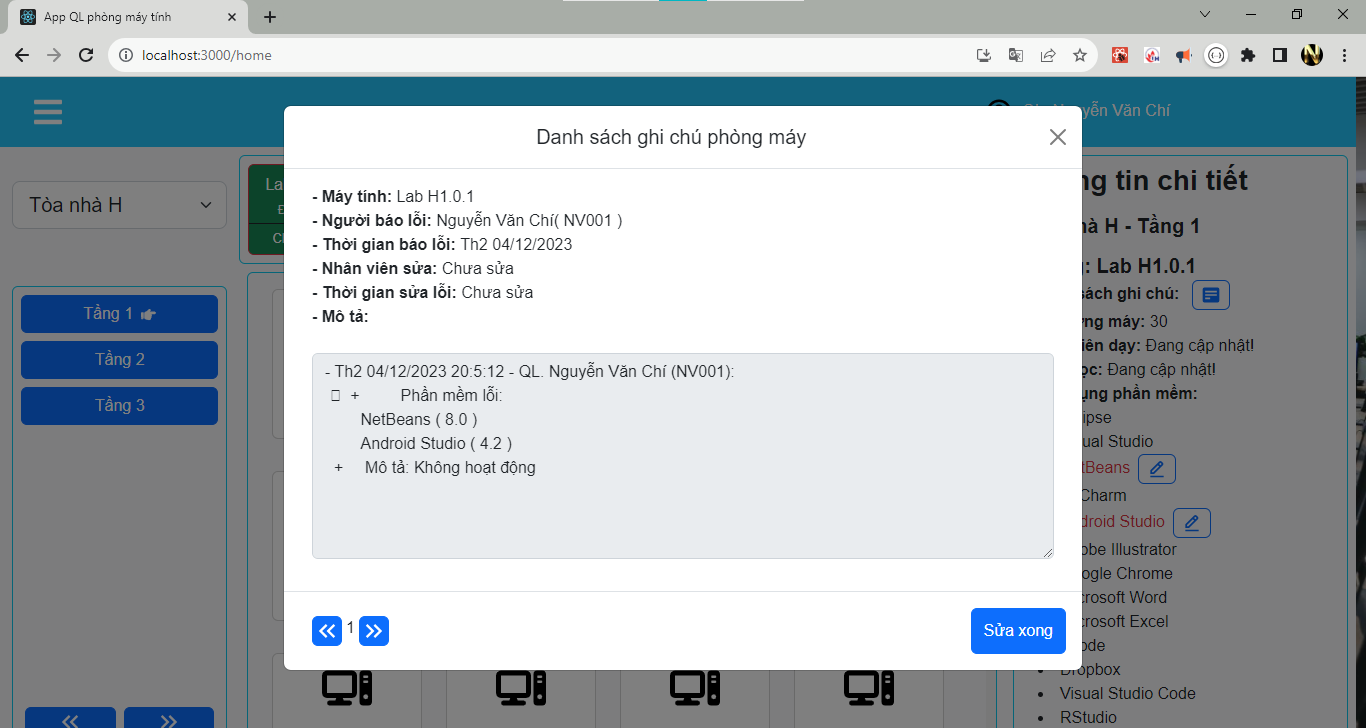
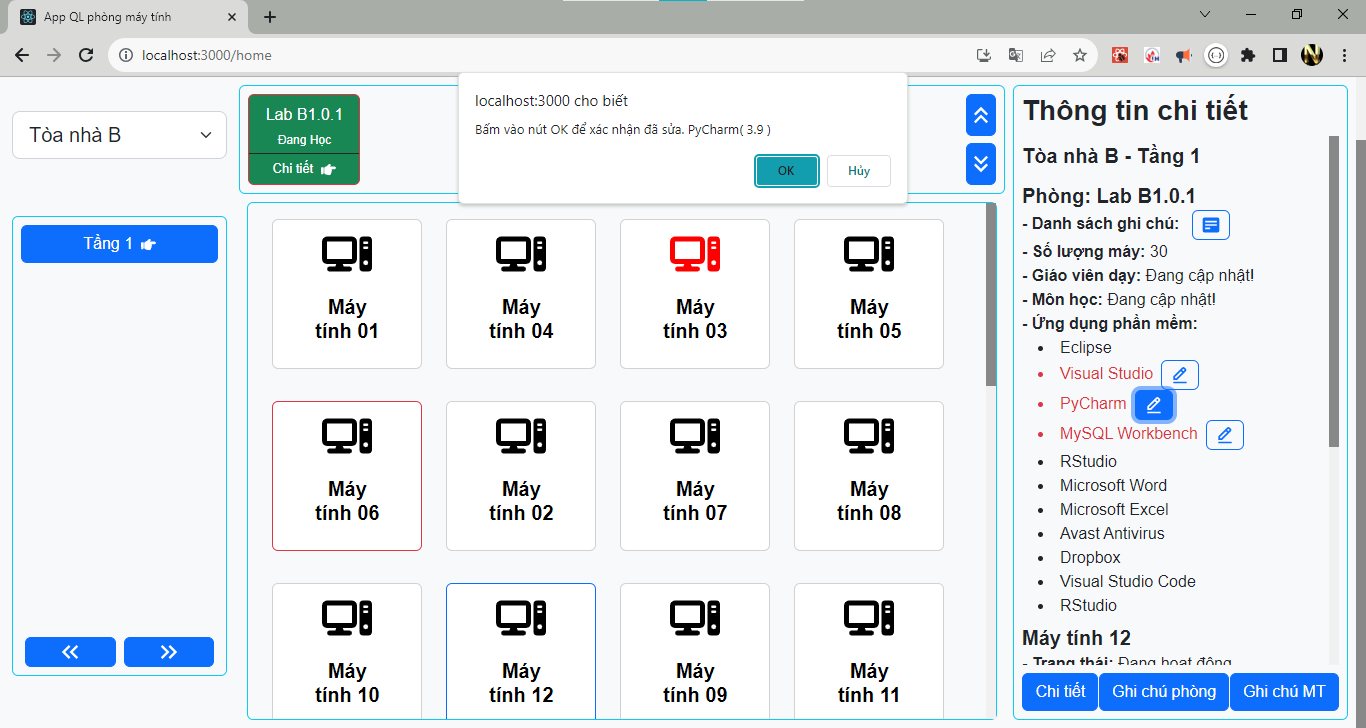
PageHome : update btn SuaGhiChuPhong

diff --git a/src/redux/reducers/home2Reducer.jsx b/src/redux/reducers/home2Reducer.jsx
@@ -2,7 +2,12 @@
 
 import { createSlice } from "@reduxjs/toolkit";
 import { formatStringDate2, http } from "../../util/config";
-import { setObjThongTinByMay, setObjThongTinByPhongMay } from "./homeReducer";
+import {
+  setObjThongTinByMay,
+  setObjThongTinByPhongMay,
+  setObjThongTinByTang,
+} from "./homeReducer";
+import { setArrPhongMay_GhiChuAction } from "./phongMayReducer";
 //phuc vụ cho ghi chú
 const initialState = {
   objThongTinGhiChu: {
@@ -29,6 +34,81 @@ export const { setObjThongTinGhiChu } = home2Reducer.actions;
 export default home2Reducer.reducer;
 
 // +++++++++++++++++++++++++++++++++++++++++++++++++++++++++
+/**
+ *
+ * @param {can ma thiete bij de cap nhatj phongMayPhanMem} phanMem
+ * @param {maphong de update ghi chu - update PhanmemThietBI} phong
+ * @param {reload lại page home} phong
+ * @returns
+ */
+export const updateGhiChu_PhongMay_PM_btnSuaPM = (
+  maTK,
+  txtNoiDung,
+  phanMem,
+  arrPhongMay_GhiChu,
+  phong,
+  tang
+) => {
+  console.log(maTK, txtNoiDung, phanMem, arrPhongMay_GhiChu, phong, tang);
+  return async (dispatch) => {
+    try {
+      let result_ObjGhiChuGanNhat_maPhong = await http.get(
+        `/GhiChuPhongMayGanNhatTheoPhongMay/${phong.maPhong}`
+      );
+      console.log(result_ObjGhiChuGanNhat_maPhong.data);
+
+      let objGhiChu = { ...result_ObjGhiChuGanNhat_maPhong.data };
+
+      let noidungNew = objGhiChu.noiDung + txtNoiDung;
+
+      // // cap nhat laij ghi chu
+      let objGhiChuNew = {
+        ...objGhiChu,
+        noiDung: noidungNew,
+        ngaySua: new Date(),
+        nguoiSuaLoi: maTK,
+      };
+      console.log(objGhiChuNew);
+      await http.post("/LuuGhiChuPhongMay", objGhiChuNew);
+
+      // //cap nhat PhongMayPhanMem
+      let savePhongMay_PhanMem = {
+        phongMay: phong,
+        phanMem: phanMem,
+        status: true,
+      };
+      console.log(savePhongMay_PhanMem);
+      await http.post("/LuuPhongMayPhanMem", savePhongMay_PhanMem);
+
+      // //
+
+      // let objUpdate = await http.get(`/PhongMay/${phong.maPhong}`);
+      // // giups reload laij page home
+
+      // dispatch(setObjThongTinByPhongMay(objUpdate.data));
+      // dispatch(setObjThongTinByMay(mayTinh));
+
+      let arrPhongMayNew = arrPhongMay_GhiChu.map((item) => {
+        if (item.maPhong === phong.maPhong) {
+          let { dsGhiChuPM } = item;
+
+          let dsGhiChuPMNew = dsGhiChuPM.map((item) => {
+            if (item.maGhiChu === objGhiChu.maGhiChu) return objGhiChuNew;
+            return item;
+          });
+          return { ...item, dsGhiChuPM: [...dsGhiChuPMNew] };
+        }
+        return item;
+      });
+      dispatch(setArrPhongMay_GhiChuAction([...arrPhongMayNew]));
+      // giups reload laij page home
+      dispatch(setObjThongTinByTang(tang, arrPhongMayNew));
+    } catch (error) {
+      alert("Lỗi hệ thống! Vui lòng quay lại sau.");
+      console.log("🚀 ~ file: home2Reducer.jsx:42 ~ return ~ error:", error);
+    }
+  };
+};
 /**
  *
  * @param {can ma thiete bij de cap nhatj MayTInhThietbi} thietBi
@@ -68,7 +148,7 @@ export const updateGhiChu_MayTinh_Tbi_btnSuaTbi = (
         thietBi,
         status: true,
       };
-      http.post("/LuuMayTinhThietBi", saveMayTinh_ThietBi);
+      await http.post("/LuuMayTinhThietBi", saveMayTinh_ThietBi);
 
       //
 
@@ -91,18 +171,33 @@ export const updateGhiChu_MayTinh_Tbi_btnSuaTbi = (
  * @param {GhiChuPhanMem} objDataNew
  * @param {phong dang ở dể có the reload lại} phong
  */
-export const updateGhiChu_MayTinh_PM = (objDataNew, phong) => {
+export const updateGhiChu_MayTinh_PM = (
+  objDataNew,
+  phong,
+  tang,
+  arrPhongMay_GhiChu
+) => {
   return async (dispatch) => {
     try {
       let result_saveGhiChu_PhongMay = await http.post(
         "/LuuGhiChuPhongMay",
         objDataNew
       );
-      let objUpdate = await http.get(`/PhongMay/${phong.maPhong}`);
+      let arrPhongMayNew = arrPhongMay_GhiChu.map((item) => {
+        if (item.maPhong === phong.maPhong) {
+          let { dsGhiChuPM } = item;
 
+          let dsGhiChuPMNew = dsGhiChuPM.map((item) => {
+            if (item.maGhiChu === objDataNew.maGhiChu) return objDataNew;
+            return item;
+          });
+          return { ...item, dsGhiChuPM: [...dsGhiChuPMNew] };
+        }
+        return item;
+      });
+      dispatch(setArrPhongMay_GhiChuAction([...arrPhongMayNew]));
       // giups reload laij page home
-      dispatch(setObjThongTinByPhongMay(objUpdate.data));
-
+      dispatch(setObjThongTinByTang(tang, arrPhongMayNew));
     } catch (error) {
       alert("Lỗi hệ thống! Vui lòng quay lại sau.");
       console.log("🚀 ~ file: home2Reducer.jsx:42 ~ return ~ error:", error);
@@ -304,7 +399,7 @@ export const insertGhiChu_PhongMay_Api = ({
         // giups reload laij page home
         let objUpdate = await http.get(`/PhongMay/${phong.maPhong}`);
         dispatch(setObjThongTinByPhongMay(objUpdate.data));
-      }, 1000);
+      }, 500);
       alert("Ghi chú thành công.");
       return;
     } catch (error) {

diff --git a/src/components/layoutHome/ComponentThongTinChiTiet.jsx b/src/components/layoutHome/ComponentThongTinChiTiet.jsx
@@ -3,7 +3,7 @@ import { useDispatch, useSelector } from "react-redux";
 import { FaPencilAlt } from "react-icons/fa";
 import { BiEditAlt, BiSolidDetail } from "react-icons/bi";
 import ComponentModalDetaiGhiChulMayTinh from "./ComponentModalDetaiGhiChulMayTinh";
-import { updateGhiChu_MayTinh_Tbi_btnSuaTbi } from "../../redux/reducers/home2Reducer";
+import { updateGhiChu_MayTinh_Tbi_btnSuaTbi, updateGhiChu_PhongMay_PM_btnSuaPM } from "../../redux/reducers/home2Reducer";
 import { formatNameByHocVi, formatStringDate4 } from "../../util/config";
 
 export default function ComponentThongTinChiTiet() {
@@ -12,6 +12,7 @@ export default function ComponentThongTinChiTiet() {
   //
   let { objThongTin } = useSelector((state) => state.homeReducer);
   let { userLogin } = useSelector((state) => state.userReducer);
+  let { arrPhongMay_GhiChu } = useSelector((state) => state.phongMayReducer);
   //
   if (
     Object.keys(objThongTin).length === 0 ||
@@ -44,6 +45,24 @@ export default function ComponentThongTinChiTiet() {
       updateGhiChu_MayTinh_Tbi_btnSuaTbi(maTK, noiDungNew, item, mayTinh, phong)
     );
   };
+  //
+  const handleClick_btnSuaPM_phongMay = (item) => {
+    let str_TaiKhoan = thongtinTaiKhoan(userLogin);
+    let noiDungNew = `\n- ${formatStringDate4()} - ${str_TaiKhoan} sửa phần mềm: ${
+      item.tenPhanMem
+    } (${item.phienBan})`;
+    let maTK = userLogin.taiKhoan.maTK;
+    dispatch(
+      updateGhiChu_PhongMay_PM_btnSuaPM(
+        maTK,
+        noiDungNew,
+        item,
+        arrPhongMay_GhiChu,
+        phong,
+        tang
+      )
+    );
+  };
 
   // render
   const renderThongTinTheoPhong = () => {
@@ -68,7 +87,15 @@ export default function ComponentThongTinChiTiet() {
                 className="btn btn-outline-primary mx-2 px-2"
                 style={{ padding: "2px" }}
                 onClick={() => {
-                  alert("dang cập nhật - Tb đã sửa - ");
+                  if (
+                    window.confirm(
+                      "Bấm vào nút OK để xác nhận đã sửa. " +
+                        item.tenPhanMem +
+                        `( ${item.phienBan} )`
+                    )
+                  ) {
+                    handleClick_btnSuaPM_phongMay(item);
+                  }
                 }}
               >
                 <BiEditAlt size={20} />
@@ -84,7 +111,7 @@ export default function ComponentThongTinChiTiet() {
       });
     };
     //
-    const renderBtnDSGhiChuPM = ( ) => {
+    const renderBtnDSGhiChuPM = () => {
       let { dsGhiChuPM } = phong;
       if (dsGhiChuPM == null || dsGhiChuPM.length === 0) {
         return <></>;
@@ -103,7 +130,7 @@ export default function ComponentThongTinChiTiet() {
           </button>
         </div>
       );
-    }
+    };
     //
     return (
       <>

diff --git a/src/components/layoutHome/ComponentModalDetaiGhiChuPhanMem.jsx b/src/components/layoutHome/ComponentModalDetaiGhiChuPhanMem.jsx
@@ -9,7 +9,10 @@ import {
   formatStringDate3,
   formatStringDate4,
 } from "../../util/config";
-import { updateGhiChu_MayTinh_PM, updateGhiChu_MayTinh_Tbi } from "../../redux/reducers/home2Reducer";
+import {
+  updateGhiChu_MayTinh_PM,
+  updateGhiChu_MayTinh_Tbi,
+} from "../../redux/reducers/home2Reducer";
 
 //
 let arrGhiChu = [];
@@ -22,6 +25,7 @@ export default function ComponentModalDetaiGhiChuPhanMem() {
   let { arrGiaoVien } = useSelector((state) => state.giaoVienReducer);
   let { arrNhanVien } = useSelector((state) => state.nhanVienReducer);
   let { userLogin } = useSelector((state) => state.userReducer);
+  let { arrPhongMay_GhiChu } = useSelector((state) => state.phongMayReducer);
   //
   let [rowArrGhiChuPM, setRowArrGhiChuPM] = useState(0);
   let value_check_sua = 0; // check data da sửa chua: 1 đã sửa -- 0 chưa
@@ -35,8 +39,7 @@ export default function ComponentModalDetaiGhiChuPhanMem() {
   ) {
     return <></>;
   } else {
-    console.log(objThongTin.phong.dsGhiChuPM);
-    arrGhiChu = objThongTin.phong.dsGhiChuPM;
+    arrGhiChu = [...objThongTin.phong.dsGhiChuPM];
     arrGhiChu.sort((a, b) => {
       let val_a = new Date(a.ngayBaoLoi);
       let val_b = new Date(b.ngayBaoLoi);
@@ -58,9 +61,9 @@ export default function ComponentModalDetaiGhiChuPhanMem() {
       ngaySua: new Date(),
       noiDung: noiDungNew,
     };
-    let { phong } = objThongTin;
+    let { phong, tang } = objThongTin;
     //
-    dispatch(updateGhiChu_MayTinh_PM(objData,phong));
+    dispatch(updateGhiChu_MayTinh_PM(objData, phong, tang, arrPhongMay_GhiChu));
   };
 
   // render thonog tin

diff --git a/src/components/layoutHome/ComponentModalGhiChuPhong.jsx b/src/components/layoutHome/ComponentModalGhiChuPhong.jsx
@@ -2,6 +2,7 @@ import React, { useEffect, useRef, useState } from "react";
 import { useDispatch, useSelector } from "react-redux";
 import {
   insertGhiChuApi,
+  insertGhiChu_PhongMay_Api,
   setObjThongTinGhiChu,
 } from "../../redux/reducers/home2Reducer";
 import {
@@ -61,7 +62,7 @@ export default function ComponentModalGhiChuPhong() {
       txtTextGhiChu_PM,
     };
 
-    dispatch(insertGhiChuApi({ userLogin, objThongTin, objTTGhiChu }));
+    dispatch(insertGhiChu_PhongMay_Api({ userLogin, objThongTin, objTTGhiChu }));
 
     // $('#modalIdGhiChu').modal('hide');
     // document.querySelector("#modalIdGhiChu").modal("hide");

diff --git a/src/redux/reducers/homeReducer.jsx b/src/redux/reducers/homeReducer.jsx
@@ -305,9 +305,6 @@ export const setObjThongTinByTang = (valTang, arrPhongMay) => {
       }, 200);
       //
       setTimeout(() => {
-        console.log(objThongTin);
-        console.log(arrPhongH);
-        console.log(arrMayTinhH);
 
         dispatch(
           setObjThongTinByTangAction({

diff --git a/README.md b/README.md
@@ -142,6 +142,7 @@
     -FormUpdateLichThucHanh - GUI finish - handle chưa xong
     - page home - dsPhong - btnSuaTbi -btn suaPM
     - graph phong theo ghi chú
+    -insertGhiChu_PhongMay_Api: cần cập nhật arrPhongMay_GhiChu - hiện tổng số trang ở MOdaldetailGhiChu
 
     #
     - ComponentModalGhiChu: err check box trùng value (mavalue) - lấy thông tin - xác nhận gửi
